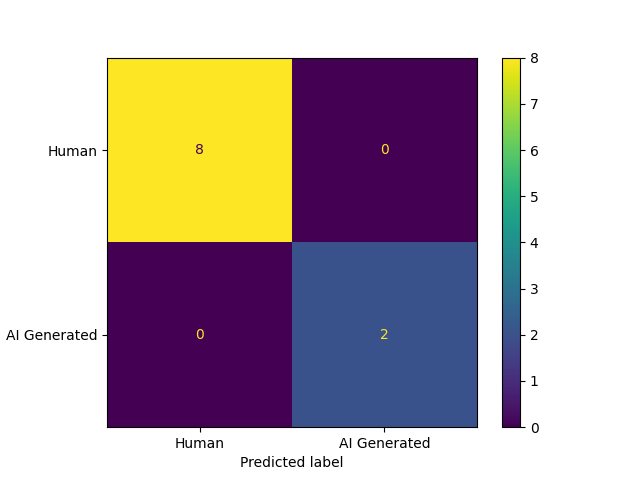
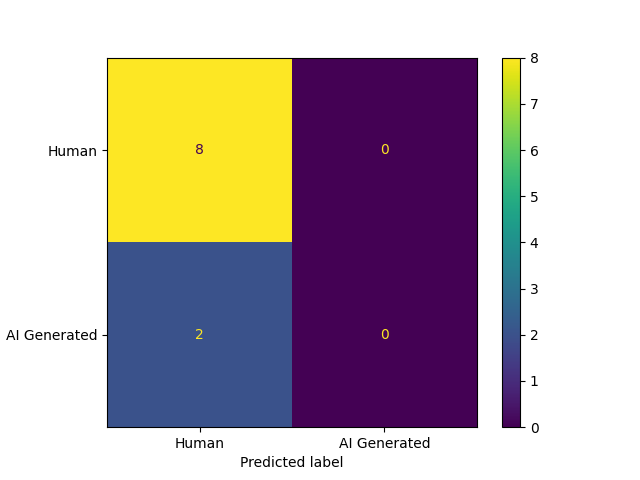
train and prediction modified

Changed region(s): [[0.1562, 0.5, 0.75, 0.9062]]

diff --git a/src/train_model.py b/src/train_model.py
@@ -1,18 +1,16 @@
-import numpy as np
-from datetime import datetime as dt
 import os
+import numpy as np
 import torch
-from torch.utils.data import DataLoader
-from transformers import DistilBertForSequenceClassification, Trainer, TrainingArguments
-from datasets import load_metric, load_from_disk
-import hydra
-from hydra.utils import get_original_cwd
 from google.cloud import storage
-from src.visualizations.visualize import plot_confusion_matrix_sklearn
-import wandb
+from datasets import load_metric, load_from_disk
+from transformers import DistilBertForSequenceClassification, Trainer, TrainingArguments
+from visualizations.visualize import plot_confusion_matrix_sklearn
+from hydra.utils import get_original_cwd
+import hydra
 import omegaconf
-from hydra import compose, initialize
 from omegaconf import OmegaConf
+import wandb
+from predict_model import predict
 
 hydra_logger = hydra.utils.log  # Use Hydra logger for logging
 
@@ -22,7 +20,6 @@ metric = load_metric("accuracy")
 TEST_ROOT = os.path.dirname(__file__)  # root of test folder
 PROJECT_ROOT = os.path.dirname(TEST_ROOT)
 
-
 def compute_metrics(eval_pred):
     logits, labels = eval_pred
     predictions = np.argmax(logits, axis=-1)
@@ -30,11 +27,8 @@ def compute_metrics(eval_pred):
     hydra_logger.info(f"Accuracy: {accuracy['accuracy']}")
     return accuracy
 
-
 def upload_model_to_gcs(local_model_dir, bucket_name, gcs_path, model_name):
     client = storage.Client()
-
-    # Create the folder in GCS
     folder_name = f"{gcs_path}/{model_name}"
     bucket = client.bucket(bucket_name)
     blob = bucket.blob(folder_name)
@@ -46,37 +40,46 @@ def upload_model_to_gcs(local_model_dir, bucket_name, gcs_path, model_name):
         # Upload the file to GCS
         blob = bucket.blob(remote_blob_name)
         blob.upload_from_filename(local_file_path)
-
     hydra_logger.info(f"Files uploaded to GCS folder: gs://{bucket_name}/{folder_name}")
 
+def save_model(trainer, parameters): 
+    model_dir = PROJECT_ROOT + "/models"
+    trainer.save_model(f"{model_dir}/{parameters.gcp_args.model_name}")
+    trainer.save_model(f"{model_dir}/latest")
 
-@hydra.main(config_path="config", config_name="default_config.yaml")
-def main(config):
-    train(config)
+    # Upload model to GCS
+    if parameters.gcp_args.push_model_to_gcs == "True":
+        upload_model_to_gcs(model_dir, parameters.gcp_args.gcs_bucket, parameters.gcp_args.gcs_path, parameters.gcp_args.model_name)
+        upload_model_to_gcs(model_dir, parameters.gcp_args.gcs_bucket, parameters.gcp_args.gcs_path, "latest")
 
+def wandb_log_metrics(all_predictions, class_names):
+    wandb.log({"accuracy": metric.compute(predictions=all_predictions['prediction'], references=all_predictions['label'])['accuracy']})
+    wandb.log({"confusion matrix": wandb.plot.confusion_matrix(
+            probs=None, y_true=all_predictions['label'], preds=all_predictions['prediction'], class_names=class_names)})
+    wandb.log({"roc": wandb.plot.roc_curve(all_predictions['label'], all_predictions['prediction'], labels=class_names)})
+    plot_confusion_matrix_sklearn(all_predictions['label'], all_predictions['prediction'], class_names, run=wandb.run)  # Saves to wandb
 
 def train(config):
     print(omegaconf.OmegaConf.to_yaml(config))
 
-    device = torch.device(
-        "cuda" if torch.cuda.is_available() else "mps" if torch.backends.mps.is_available() else "cpu"
-    )
+    device = torch.device("cuda" if torch.cuda.is_available() else "mps" if torch.backends.mps.is_available() else "cpu")
     hydra_logger.info(f"Using device: {device}")
 
     parameters = config.experiment
-    model = DistilBertForSequenceClassification.from_pretrained(
-        parameters.model_settings.cls, num_labels=parameters.model_settings.num_labels
-    )
+    model = DistilBertForSequenceClassification.from_pretrained(parameters.model_settings.cls, num_labels=parameters.model_settings.num_labels)
 
     wandb_enabled = parameters.general_args.wandb_enabled
-    if wandb_enabled:
+    if wandb_enabled == 'True':
         try:
             wandb.init(project="MLOps-DetectAIText", entity="teamdp", name=parameters.gcp_args.model_name)
+            wandb_enabled = True
         except:
             print("Could not initialize wandb. No API key found.")
             wandb.init(mode="disabled")
+            wandb_enabled = False
     else:
         wandb.init(mode="disabled")
+        wandb_enabled = False
 
     path_to_data = os.path.join(PROJECT_ROOT, "data/processed")
     train_dataset = load_from_disk(os.path.join(path_to_data, parameters.general_args.path_train_data))
@@ -95,8 +98,7 @@ def train(config):
         args=training_args,
         train_dataset=train_dataset,
         eval_dataset=val_dataset,
-        compute_metrics=compute_metrics,
-    )
+        compute_metrics=compute_metrics)
 
     # Train the model
     trainer.train()
@@ -106,48 +108,25 @@ def train(config):
 
     # Use the trained model for predictions
     model.eval()
-    predictions = []
-    true_labels = []
-    probabilities = []
-    prob1D = []
-    for i in range(len(val_dataset)):
-        with torch.no_grad():
-            input_ids = torch.tensor(val_dataset[i]["input_ids"]).to(device)
-            attention_mask = torch.tensor(val_dataset[i]["attention_mask"]).to(device)
-            labels = val_dataset[i]["label"]  
-            logits = model(input_ids=input_ids, attention_mask=attention_mask).logits
-            probs = torch.softmax(logits, dim=1)
-            predicted_label = torch.argmax(probs, dim=1).item()
-            predictions.append(predicted_label)
-            true_labels.append(labels)
-            probabilities.append(list(probs.cpu().numpy().flatten()))
-            prob1D.append(probs.cpu().numpy().flatten()[0])
 
-    class_names = ["Human", "AI Generated"]
+    # Get predictions on the validation dataset
+    all_predictions = predict(model, val_dataset, device)
+
     # Log metrics to wandb
-    wandb.log(
-        {
-            "confusion matrix": wandb.plot.confusion_matrix(
-                probs=None, y_true=true_labels, preds=predictions, class_names=class_names
-            )
-        }
-    )
-    wandb.log({"roc": wandb.plot.roc_curve(true_labels, probabilities, labels=class_names)})
-    plot_confusion_matrix_sklearn(true_labels, predictions, class_names, run=wandb.run) # Saves to wandb
-    plot_confusion_matrix_sklearn(true_labels, predictions, class_names, save_path=os.path.join(PROJECT_ROOT, "reports/figures"), name=f"confusion_matrix_{parameters.gcp_args.model_name}.png") # Saves to reports/figures
-
+    class_names = ["Human", "AI Generated"]
+    if wandb_enabled:
+        wandb_log_metrics(all_predictions, class_names)
+       
+    plot_confusion_matrix_sklearn(all_predictions['label'],all_predictions['prediction'],class_names,
+                                  save_path=os.path.join(get_original_cwd(), "reports/figures"),
+                                  name=f"confusion_matrix_{parameters.gcp_args.model_name}.png")  # Saves to reports/figures
+    
     # Save the model
-    model_dir = PROJECT_ROOT + "/models"
-    trainer.save_model(f"{model_dir}/{parameters.gcp_args.model_name}")
-    trainer.save_model(f"{model_dir}/latest")
-
-    # Upload model to GCS
-    if parameters.gcp_args.push_model_to_gcs == "True":
-        upload_model_to_gcs(
-            model_dir, parameters.gcp_args.gcs_bucket, parameters.gcp_args.gcs_path, parameters.gcp_args.model_name
-        )
-        upload_model_to_gcs(model_dir, parameters.gcp_args.gcs_bucket, parameters.gcp_args.gcs_path, "latest")
-
+    save_model(trainer, parameters)
+    
+@hydra.main(config_path="config", config_name="default_config.yaml")
+def main(config):
+    train(config)
 
 if __name__ == "__main__":
     main()

diff --git a/src/predict_model.py b/src/predict_model.py
@@ -7,7 +7,6 @@ from datasets import load_from_disk
 from typing import Dict
 from transformers import DistilBertTokenizerFast
 
-
 def predict_string(model: torch.nn.Module, text: str, device) -> Dict:
     """Run predictions for a given model on a string
 
@@ -22,10 +21,8 @@ def predict_string(model: torch.nn.Module, text: str, device) -> Dict:
     tokenizer = DistilBertTokenizerFast.from_pretrained("distilbert-base-uncased")
 
     # Tokenize the data
-    tokenized_text = tokenizer(text, padding="max_length", truncation=True, return_tensors="pt", max_length=512).to(
-        device
-    )
-
+    tokenized_text = tokenizer(text, padding="max_length", truncation=True, return_tensors="pt", max_length=512).to(device)
+    
     # Get the model prediction
     with torch.no_grad():
         logits = model(**tokenized_text).logits
@@ -35,7 +32,7 @@ def predict_string(model: torch.nn.Module, text: str, device) -> Dict:
     return {"text": text, "prediction": prediction, "probabilities": probabilities.tolist()[0]}
 
 
-def predict(model: torch.nn.Module, tokenized_dataset: datasets.arrow_dataset.Dataset, device) -> None:
+def predict(model: torch.nn.Module, tokenized_dataset: datasets.arrow_dataset.Dataset, device) -> pd.DataFrame:
     """Run predictions for a given model on a dataframe that contains tokenized text
 
     Args:
@@ -49,34 +46,28 @@ def predict(model: torch.nn.Module, tokenized_dataset: datasets.arrow_dataset.Da
     predictions_dataframe = pd.DataFrame(columns=["text"])
 
     predictions = []
-
+    probabilities = []
     for i in range(len(tokenized_dataset)):
         with torch.no_grad():
             input_ids = torch.tensor(tokenized_dataset[i]["input_ids"]).to(device)  # Convert input_ids to a tensor
-            attention_mask = torch.tensor(tokenized_dataset[i]["attention_mask"]).to(
-                device
-            )  # Convert attention_mask to a tensor
+            attention_mask = torch.tensor(tokenized_dataset[i]["attention_mask"]).to(device)  # Convert attention_mask to a tensor
 
             logits = model(input_ids=input_ids, attention_mask=attention_mask).logits
 
-            probabilities = torch.softmax(logits, dim=1)
+            probs = torch.softmax(logits, dim=1)
 
-            predicted_label = torch.argmax(probabilities, dim=1).item()
+            predicted_label = torch.argmax(probs, dim=1).item()
 
             predictions.append(predicted_label)
+            probabilities.append(list(probs.cpu().numpy().flatten()))
 
     predictions_dataframe["text"] = tokenized_dataset["text"]
     predictions_dataframe["prediction"] = predictions
-    predictions_dataframe["generated"] = tokenized_dataset["generated"]
+    predictions_dataframe["probabilities"] = probabilities
+    predictions_dataframe["label"] = tokenized_dataset["label"]
     return predictions_dataframe
 
-
 if __name__ == "__main__":
-    # print pwd
-    import os
-
-    print(os.getcwd())
-
     if torch.backends.mps.is_available():
         device = torch.device("mps")
     elif torch.cuda.is_available():
